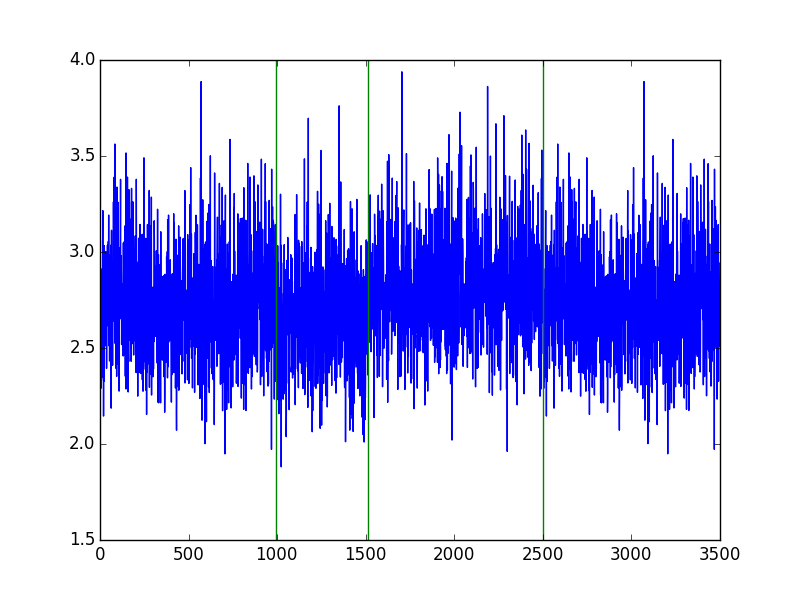
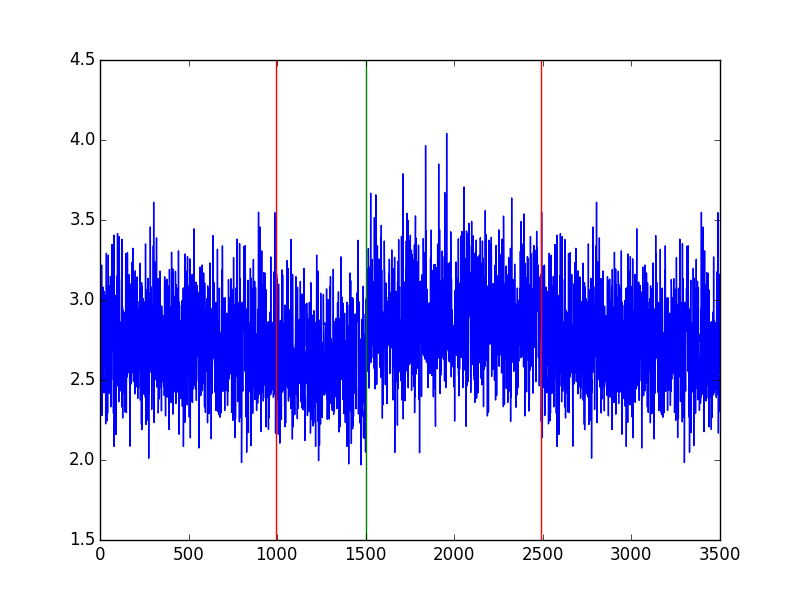
updated example

diff --git a/examples/example.py b/examples/example.py
@@ -4,17 +4,17 @@ import matplotlib.pyplot as plt
 
 # Generate random trajectory
 sample_1 = np.random.lognormal(1.0, 0.1, size=1000)
-sample_2 = np.random.lognormal(0.97, 0.1, size=500)
-sample_3 = np.random.lognormal(1.03, 0.1, size=1000)
+sample_2 = np.random.lognormal(0.95, 0.1, size=500)
+sample_3 = np.random.lognormal(1.05, 0.1, size=1000)
 
 sample = np.concatenate((sample_1, sample_2, sample_3, sample_1))
 
-detector = cpDetector([sample], distribution='log_normal')
+detector = cpDetector([sample], distribution='log_normal', log_odds_threshold=-10)
 detector.detect_cp()
 
 plt.plot(sample)
 for i in range(len(detector.change_points['traj_0']['ts'])):
-    if detector.change_points['traj_0']['log_odds'][i] > 20:
+    if detector.change_points['traj_0']['log_odds'][i] > 0:
         plt.axvline(detector.change_points['traj_0']['ts'][i], color='r')
     else:
         plt.axvline(detector.change_points['traj_0']['ts'][i], color='g')
